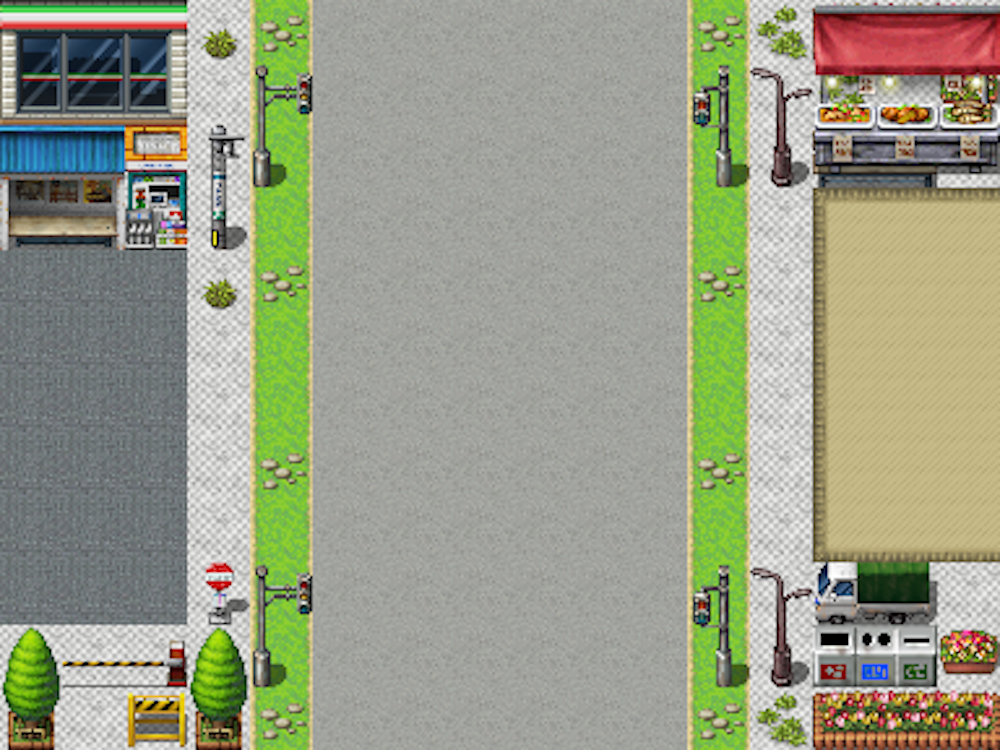
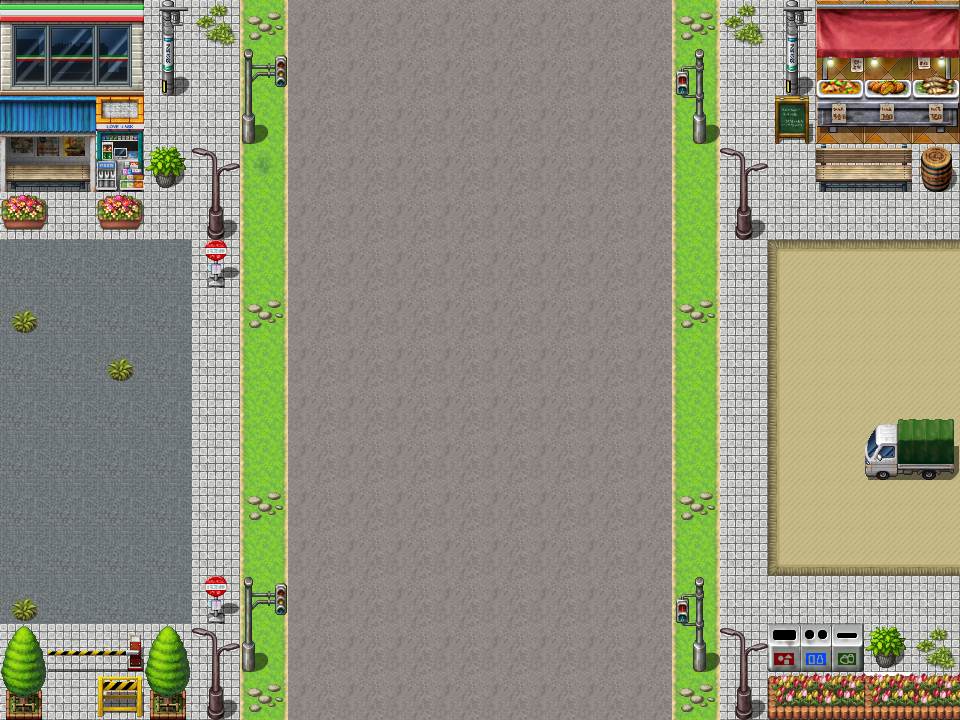
update three maps

diff --git a/docs/road-crossing/src/ui/AssetManager.js b/docs/road-crossing/src/ui/AssetManager.js
@@ -5,7 +5,7 @@ export class AssetManager {
 
       // map of all the levels and their background images
       this.levelBackgrounds = {
-        1: "Map001-big.png",
+        1: "Map001.png",
         2: "Map002.png",
         3: "Map003.png",
       };
